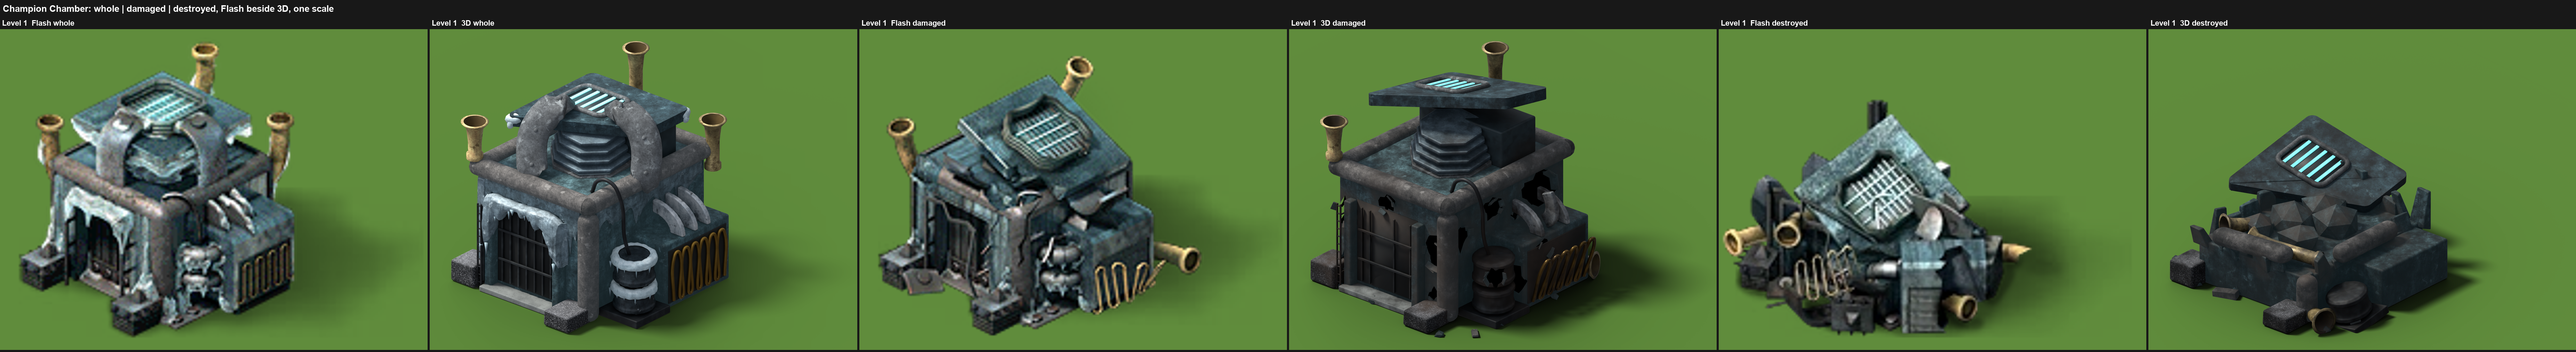
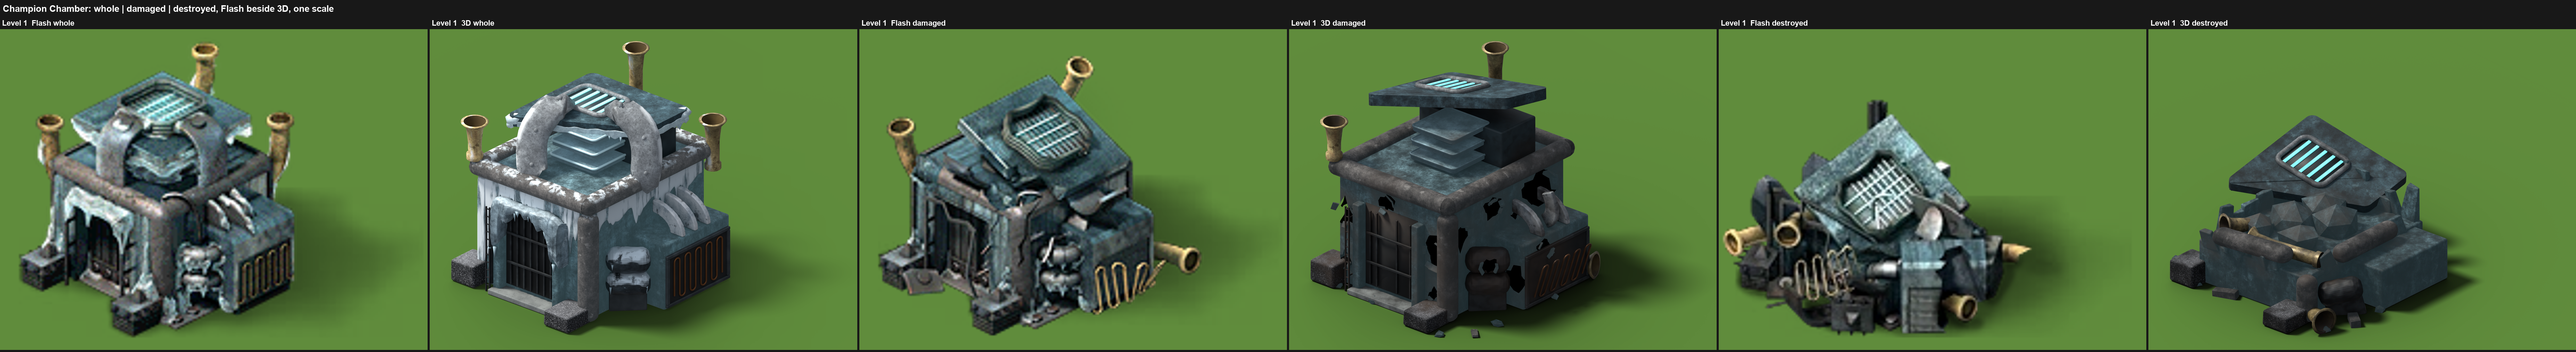
Champion Chamber 3D (r5 fixes, part 3): damaged and destroyed re-rendered, states and levels sheets rebuilt
Damaged and destroyed lose the frost painted on the bars, horns and slab rims (as Flash's broken looks).
Destroyed: the broken wall pieces are kept off the shell's corners, so none overhangs the corner (wallbit0 did).

diff --git a/art-samples/buildings-b6/chamber-v1/damage/chamberdmg.py b/art-samples/buildings-b6/chamber-v1/damage/chamberdmg.py
@@ -247,6 +247,15 @@ def thaw():
     """The drums' ice crust is gone with the rest of the frost: bare dark metal (still dented)."""
     for o in named(r"tank\d"):
         o.data.materials[0] = G["M"]["grate"]
+    # (r5) and the frost painted on the bars, the horns and the slabs' rims: undo the last frost mix of each
+    for k in ("bar", "brass"):
+        nt = G["M"][k].node_tree
+        b = next(n for n in nt.nodes if n.type == "BSDF_PRINCIPLED")
+        m = b.inputs["Base Color"].links[0].from_node
+        if m.type == "MIX" and not m.inputs[7].is_linked and m.inputs[6].is_linked:
+            nt.links.new(m.inputs[6].links[0].from_socket, b.inputs["Base Color"])
+    for o in named(r"hatchpanef\d"):
+        o.data.materials[0] = G["M"]["pane"]
 
 
 # ------------------------------------------------------------------------------------------------------------ damaged
@@ -320,7 +329,7 @@ def destroyed():
     for k in range(28):
         f = k / 28 * 4
         side, t = int(f), f - int(f)
-        ux, uy = -AX + 2 * AX * t, -AY + 2 * AY * t
+        ux, uy = -AX + 0.6 + (2 * AX - 1.2) * t, -AY + 0.6 + (2 * AY - 1.2) * t   # (r5) kept off the corners: no overhang
         x, y = [(ux, -AY), (AX, uy), (-ux, AY), (-AX, -uy)][side]
         if R.random() < 0.2:
             continue                        # gaps where the wall is broken right down
